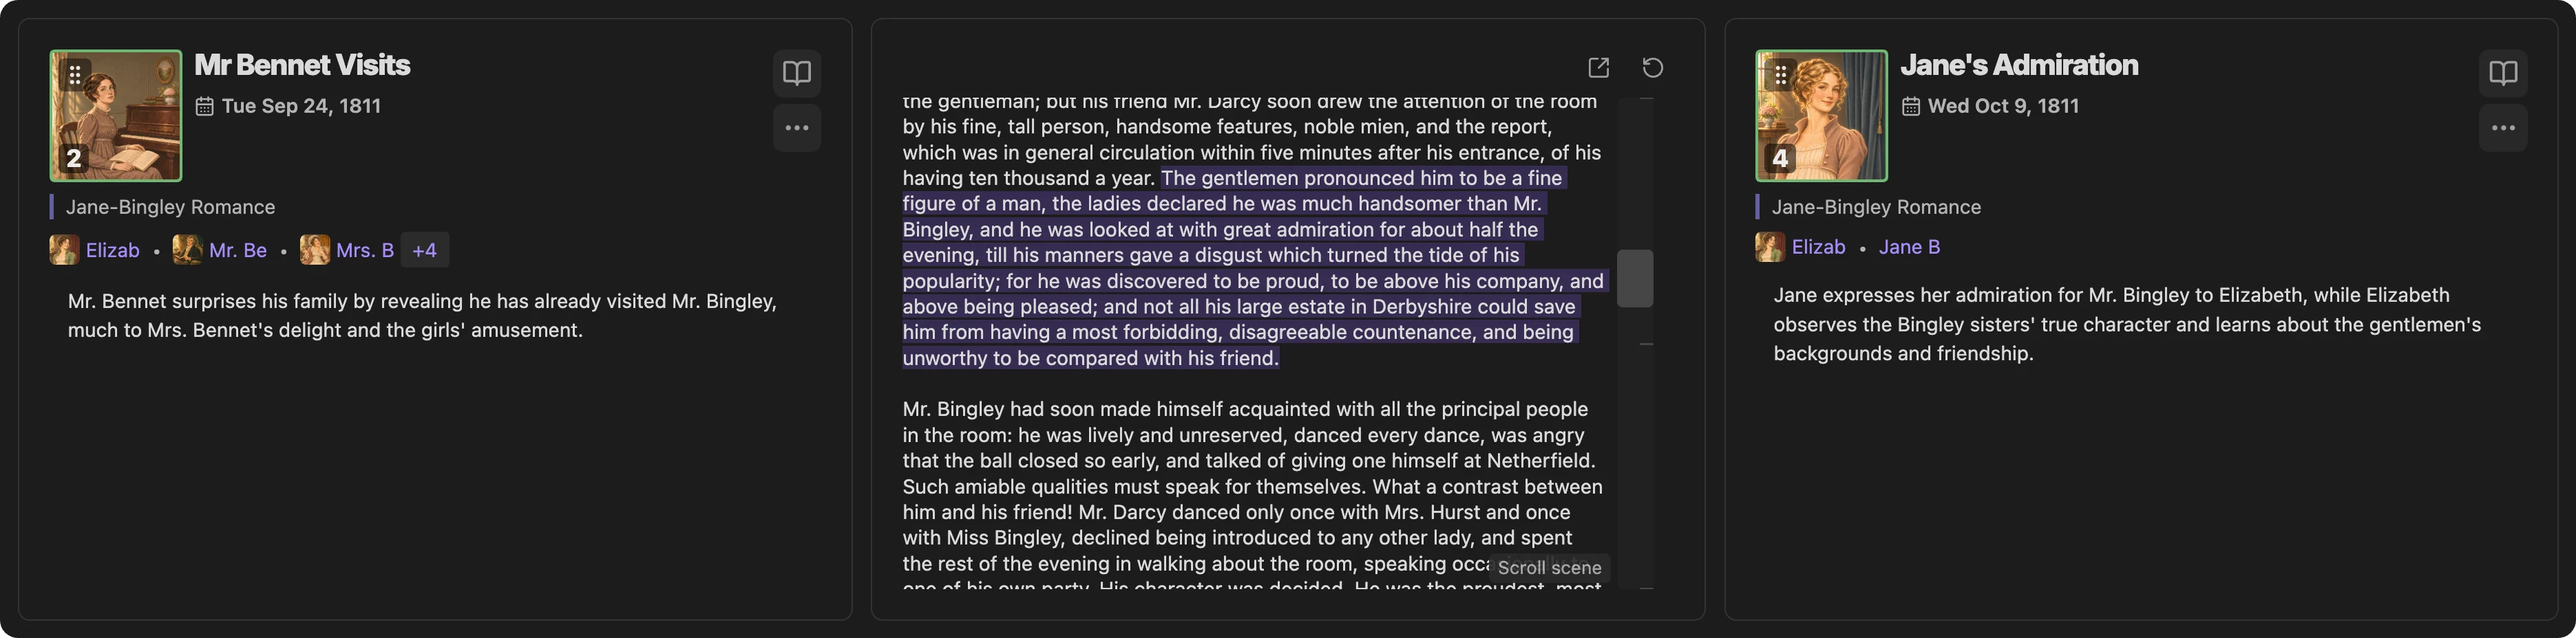
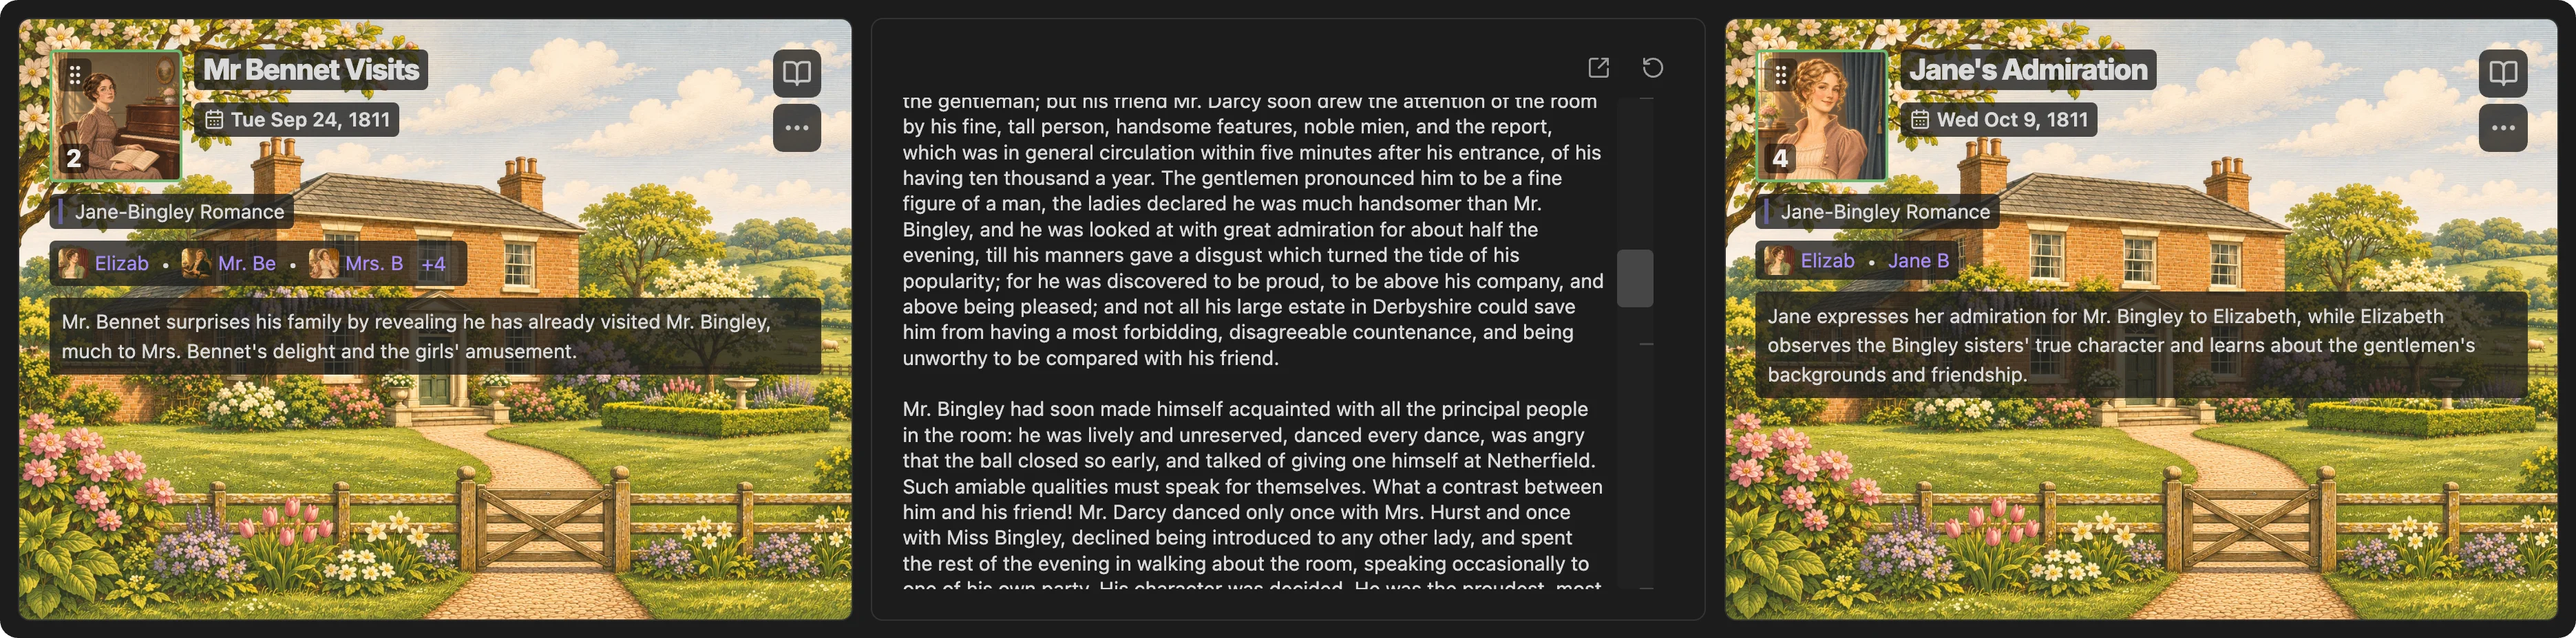
Panels picture: the turned panel between two panels showing their places
Retaken with Place background + character, so the panels beside the
turned one show each scene's place behind its portrait. Same file name;
the wiki's alt text says so.

diff --git a/wiki/Timetable.md b/wiki/Timetable.md
@@ -151,7 +151,7 @@ Notes you open from the Timetable appear in a pane below the table, so the wheel
 
 Click **Read scene**, the book button in a scene panel's top-right corner. The panel turns over and shows the scene's text. A scale beside the text shows where you are in the scene. Click a passage to open the scene in a pop-out window at that spot. Click **Show front of panel** to turn it back.
 
-<p align="center"><img src="images/release-8-3-panel-reader.webp" alt="Three Pride and Prejudice scene panels: First Ball turned over to its text, with a passage highlighted under the pointer and the position scale beside it, between the fronts of Mr Bennet Visits and Jane's Admiration" width="800"></p>
+<p align="center"><img src="images/release-8-3-panel-reader.webp" alt="Three Pride and Prejudice scene panels: First Ball turned over to its text with the position scale beside it, between Mr Bennet Visits and Jane's Admiration, each showing its place behind the character's portrait" width="800"></p>
 
 ### Panel options
 
